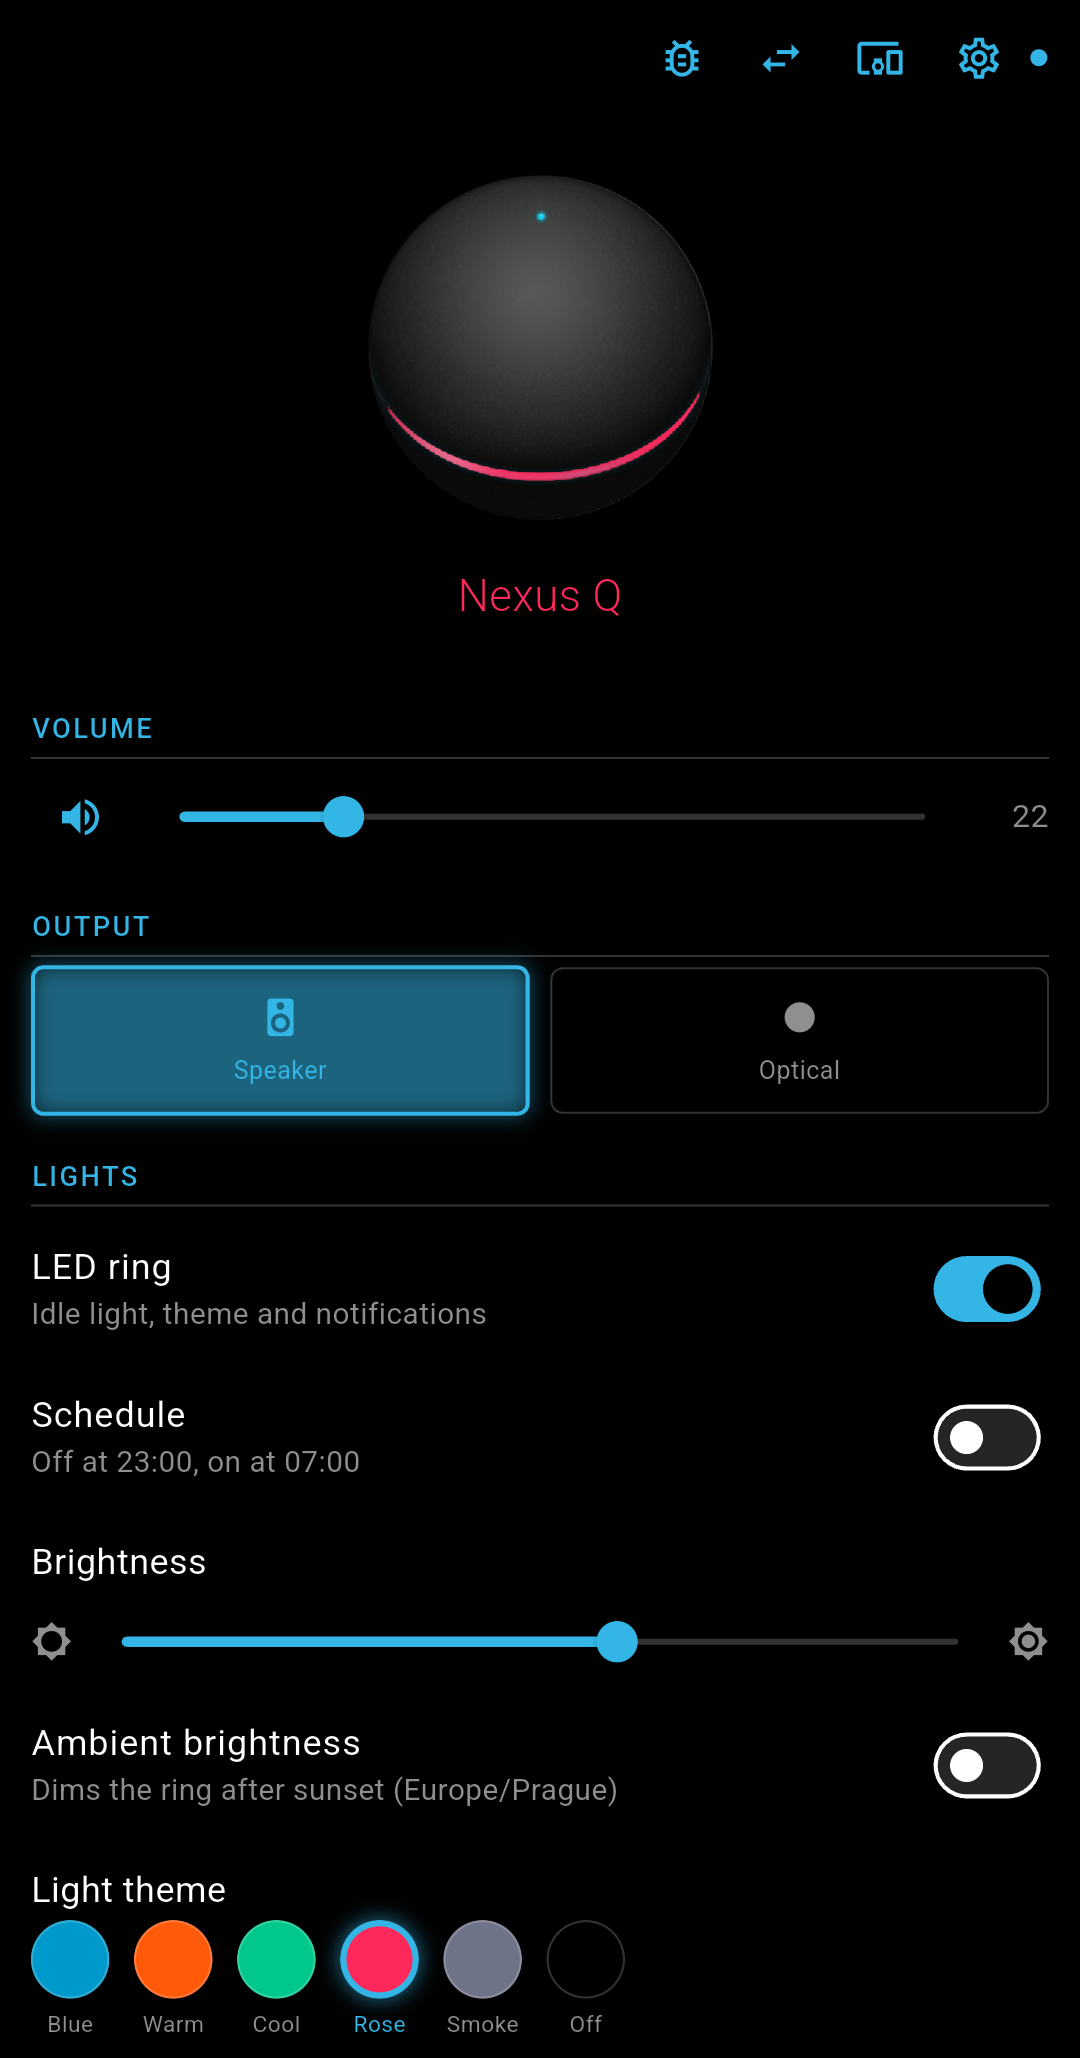
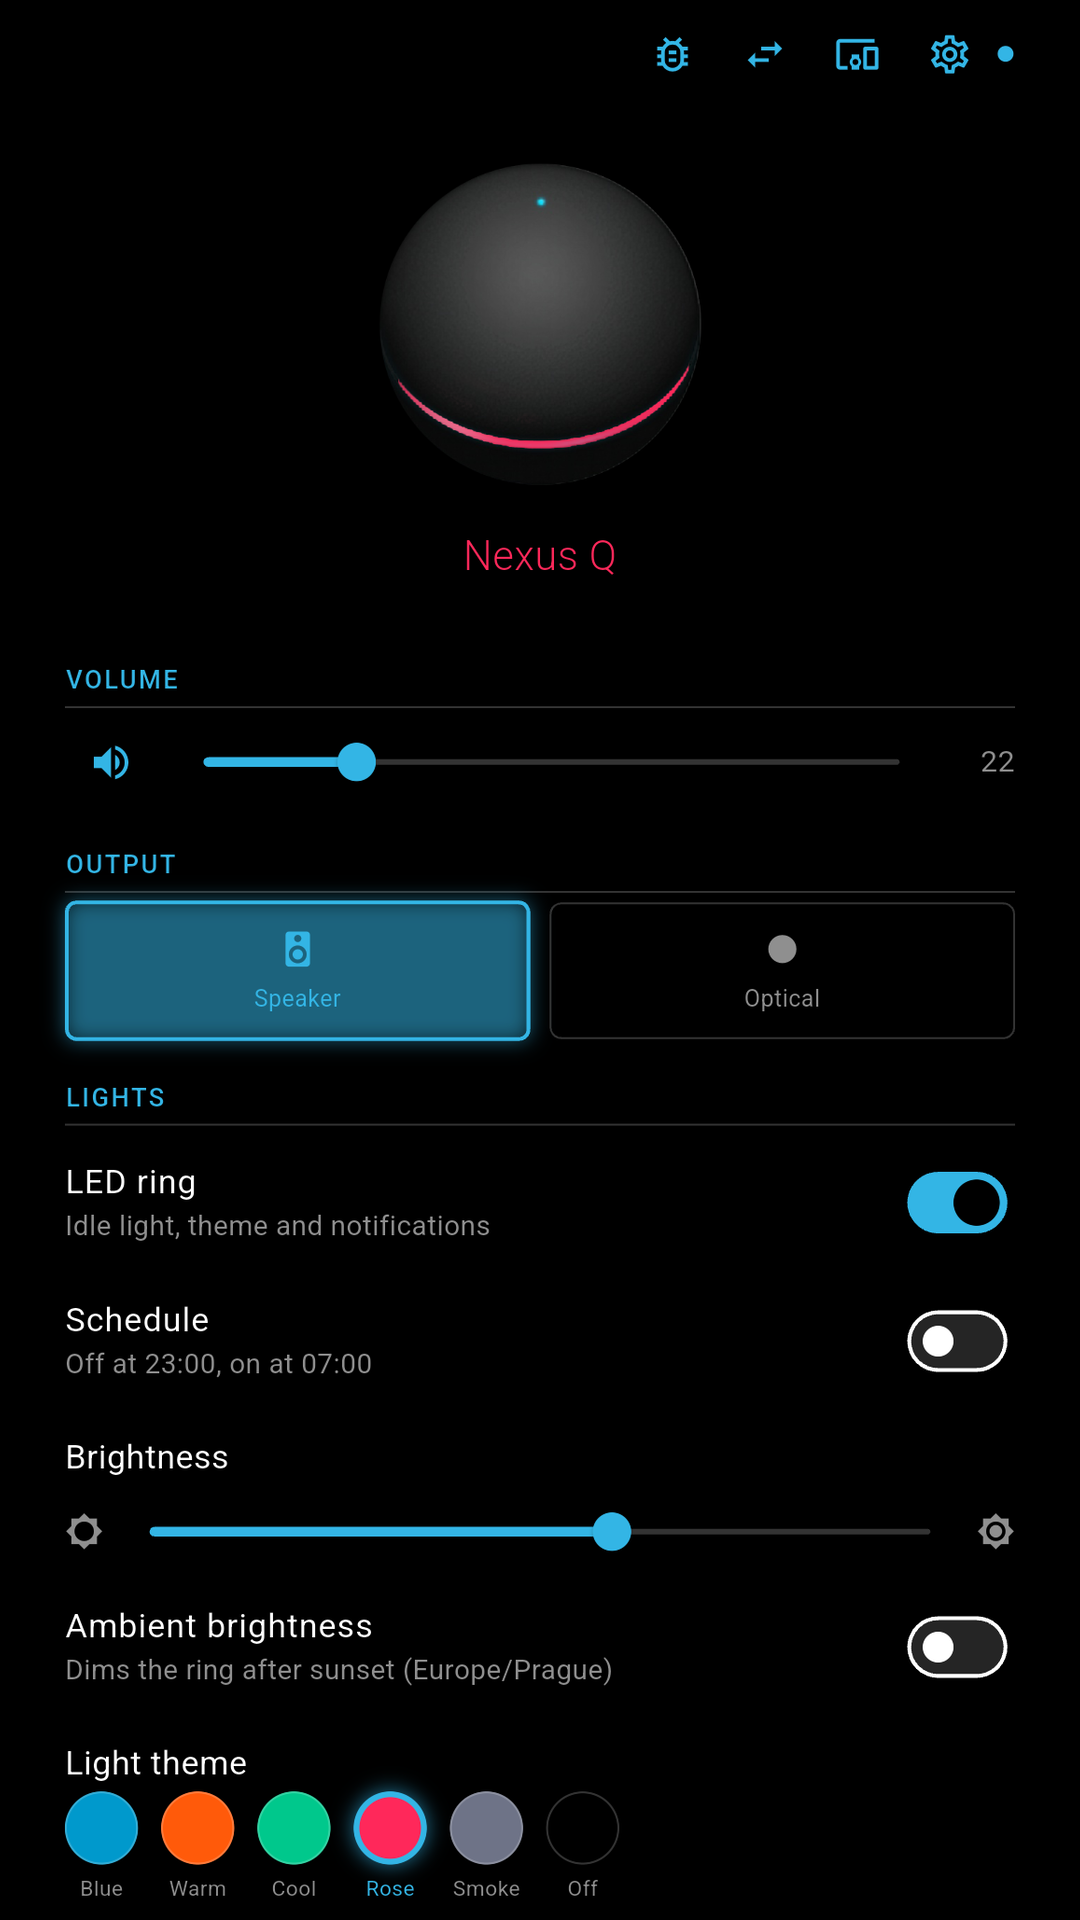
docs(app): 9:16 store screenshots, the Play Console set up
Google Play now takes phone screenshots only at exactly 9:16 or 16:9:
the five are fitted onto a black 1080x1920 canvas (taller shots scaled
down, shorter ones padded below), no content cropped. HANDOVER records
the Play Console state: app created, every declaration and the default
store listing saved; next is the play AAB and the testing tracks.

diff --git a/HANDOVER.md b/HANDOVER.md
@@ -122,8 +122,10 @@ Open, in order:
    (`companion/app/tool/store/make_store_art.sh` renders both), and five
    phone screenshots (2026-10-11, Petr's Pixel 9 Pro Fold, outer display, app
    1.27.1+68 debug against the Prague Q): home, equalizer, settings, devices,
-   health. Cropped to Play's 2:1 limit and clear of personal data (the Spotify
-   account name, the WiFi SSID). Not shot: the setup wizard, because a debug
+   health. Clear of personal data (the Spotify account name, the WiFi SSID),
+   and fitted onto a black 1080x1920 canvas, because Play now takes phone
+   screenshots only at exactly 9:16 or 16:9 (taller shots scaled down,
+   shorter ones padded below). Not shot: the setup wizard, because a debug
    build shows the original app's stock imagery that a release does not carry.
 3. ✅ **Privacy policy page** (Play requires one), published 2026-10-11 at
    https://petronijus.github.io/nexusQ-reloaded/privacy/ (text approved by
@@ -131,11 +133,27 @@ Open, in order:
    copied by hand to gh-pages `privacy/index.html`; the OTA publish leaves it
    alone. That URL goes into the Play Console's privacy policy field, and the
    data safety form follows it: no data collected or shared.
-4. **Play Console** (Petr's personal account, created after Nov 2023): create
-   the app (Google-generated app signing key; our release key is the upload
-   key), store listing, data safety, content rating, then a **closed test with
-   12 testers for 14 days** before production. Petr gathers the testers. I can
-   drive the console in Chrome; Petr confirms each submission.
+4. **Play Console** — the developer account is on **Petr's gmail Google
+   account**, not on petronijus@bastla.com (that developer account was
+   closed by Google on 2024-04-07 for inactivity; ignore it). Done
+   2026-10-11: app "Nexus Q Reloaded" (`org.nexusq.nexusq_companion`, app id
+   4973283573535202951) created, free, automatic protection on; every App
+   content declaration saved (privacy policy URL; sign-in: no account, the
+   reviewer uses the connect screen's **Demo** button; no ads; 18+; content
+   rating PEGI 3 / ESRB Everyone with petronijus@bastla.com as the IARC
+   contact; data safety: nothing collected or shared; no advertising ID;
+   not a government, financial or health app); store settings (Music &
+   Audio, contact petronijus@bastla.com, website the GitHub repo); the
+   default store listing from fastlane (texts, icon, feature graphic, five
+   screenshots; AI label: none, the art is hand-written SVG). Next: build
+   the `play` flavor AAB signed with our release key (it becomes the upload
+   key, Google generates the app signing key), a **closed test with 12
+   testers for 14 days**, then apply for production. Petr gathers the
+   testers; he confirms each submission.
+   Also open: **Android developer verification** (Console, left menu) — the
+   GitHub APK's package name and our signing key must be registered there,
+   or certified devices in the countries where it applies stop installing
+   the sideloaded app (the deadline was 2026-09-30).
 5. **F-Droid — on hold:** with the original Google assets F-Droid refuses
    the app (non-free assets); it needs free art in the fdroid flavor first.
    Then: a merge request to `fdroiddata` (Petr's GitLab account) with a
